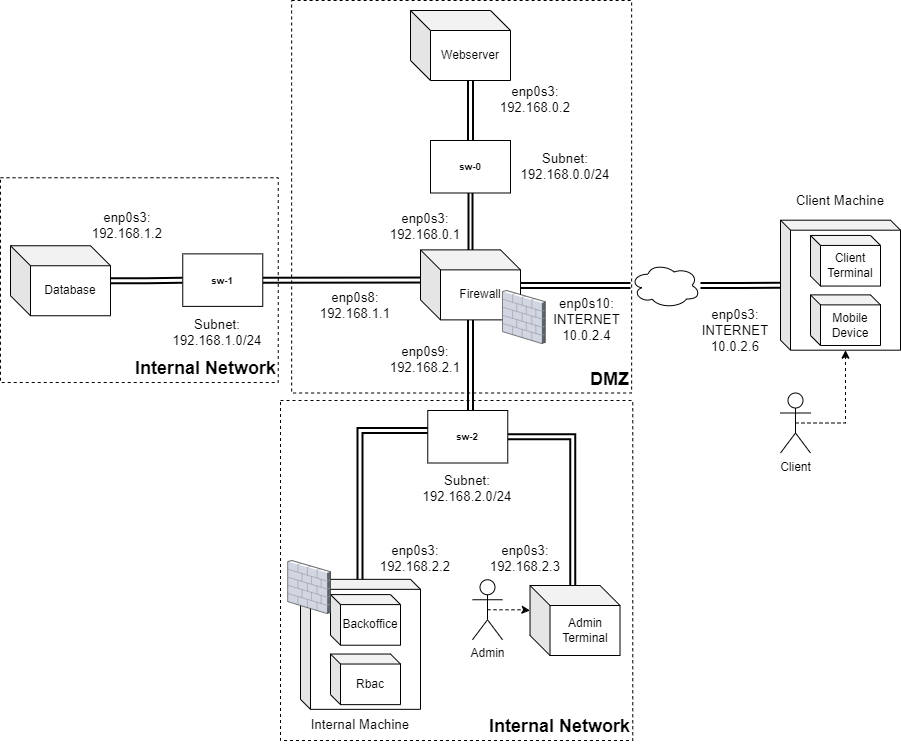
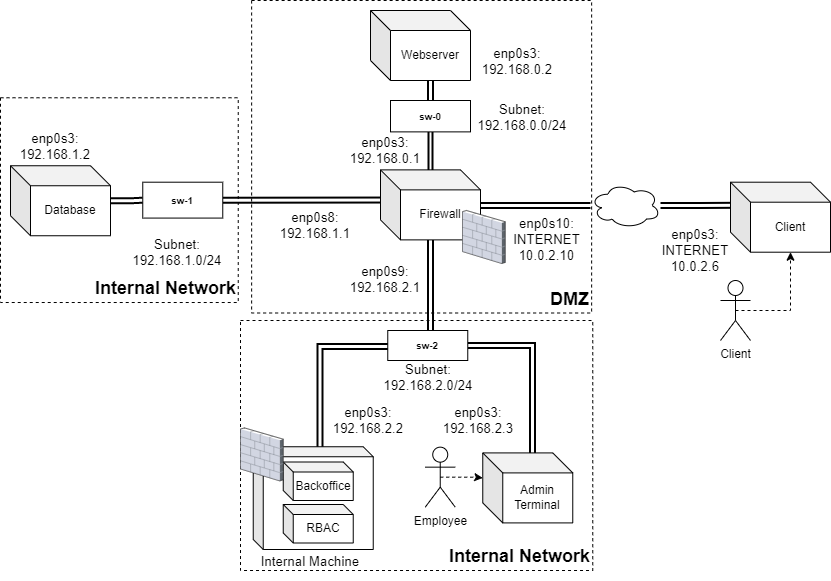
Change files to run VMs

Changed region(s): [[0.0, 0.0, 1.0, 1.0], [0.6919, 0.0, 0.722, 0.062], [0.0, 0.4957, 0.0301, 0.5267]]

diff --git a/ecoges/webserver/src/main/java/pt/ulisboa/tecnico/sirs/webserver/Webserver.java b/ecoges/webserver/src/main/java/pt/ulisboa/tecnico/sirs/webserver/Webserver.java
@@ -634,6 +634,10 @@ public class Webserver {
 
         byte[] iv = Security.generateRandom();
 
+        // make sure there is no pending temporary key to discard due to the failure
+        // of a department that did not send an acknowledgment message
+        discardTemporaryKeyIfExists(email);
+
         st = dbConnection.prepareStatement(CREATE_APPLIANCE);
         st.setInt(1, getClientId(email));
         st.setString(2, applianceName);
@@ -679,6 +683,10 @@ public class Webserver {
         float energyProduced = (float)(Math.random()* MAX_ENERGY_PRODUCTION);
 
         byte[] iv = Security.generateRandom();
+        
+        // make sure there is no pending temporary key to discard due to the failure
+        // of a department that did not send an acknowledgment message
+        discardTemporaryKeyIfExists(email);
 
         // add solar panel
         st = dbConnection.prepareStatement(CREATE_SOLAR_PANEL);

diff --git a/README.md b/README.md
@@ -55,7 +55,7 @@ All machines will be running on Linux and configured according to the following 
 | __Client Machine__ |||||||||
 | 1 | INTERNET (10.0.2.6) | enp0s3 | NatNetwork |  |
 | __Firewall Machine__ |
-| 1 | INTERNET (10.0.2.4) | enp0s3 | NatNetwork |  |
+| 1 | INTERNET (10.0.2.10) | enp0s3 | NatNetwork |  |
 | 2 | 192.168.0.1 | enp0s3 | Internal Network | sw-0
 | 3 | 192.168.1.1 | enp0s8 | Internal Network | sw-1
 | 4 | 192.168.2.1 | enp0s9 | Internal Network | sw-2
@@ -74,7 +74,7 @@ All machines will be running on Linux and configured according to the following 
 For each machine, run the following commands:
 
     cd ecoges/scripts
-    sudo chmod +x <script>.sh
+    sudo chmod 777 <script>.sh
 
 
 > **TIP: If the script does not run as expected, convert the file to unix format using the `dos2unix` tool and run the script again**
@@ -108,9 +108,9 @@ Before deploying all machines, you need to generate the certificates that will b
 
 For the TLS, both webserver, backoffice and database ceritificates need to be issued to their IP address.
 
-Change the field `IP.1` in `ecoges/scripts/webserver-domains.ext` to the corresponding IP address (e.g. Firewall public IP `10.0.2.4`) and `IP.2` to its own address `192.168.0.2`
+Change the field `IP.1` in `ecoges/scripts/webserver-domains.ext` to the corresponding IP address (e.g. Firewall public IP `10.0.2.10`) and `IP.2` to its own address `192.168.0.2`
  
-    IP.1 = 10.0.2.4
+    IP.1 = 10.0.2.10
     IP.2 = 192.168.0.2
 
 Change the field `IP.1` in `ecoges/scripts/backoffice-domains.ext` to the corresponding IP address (e.g. `192.168.2.2`)
@@ -184,7 +184,7 @@ To simplify the task, we created a script that runs each module automatically.
 Run each module for each machine by providing the following possible values to `<module>` field: **webserver**, **backoffice**, **rbac**, **client** or **admin**. If desired, modules can be run on localhost by setting the development environment `-dev` before specifying the module.
 
     cd ecoges
-    sudo chmod +x run.sh
+    sudo chmod 777 run.sh
     ./run.sh <module>
 
 ## Alternative 2
